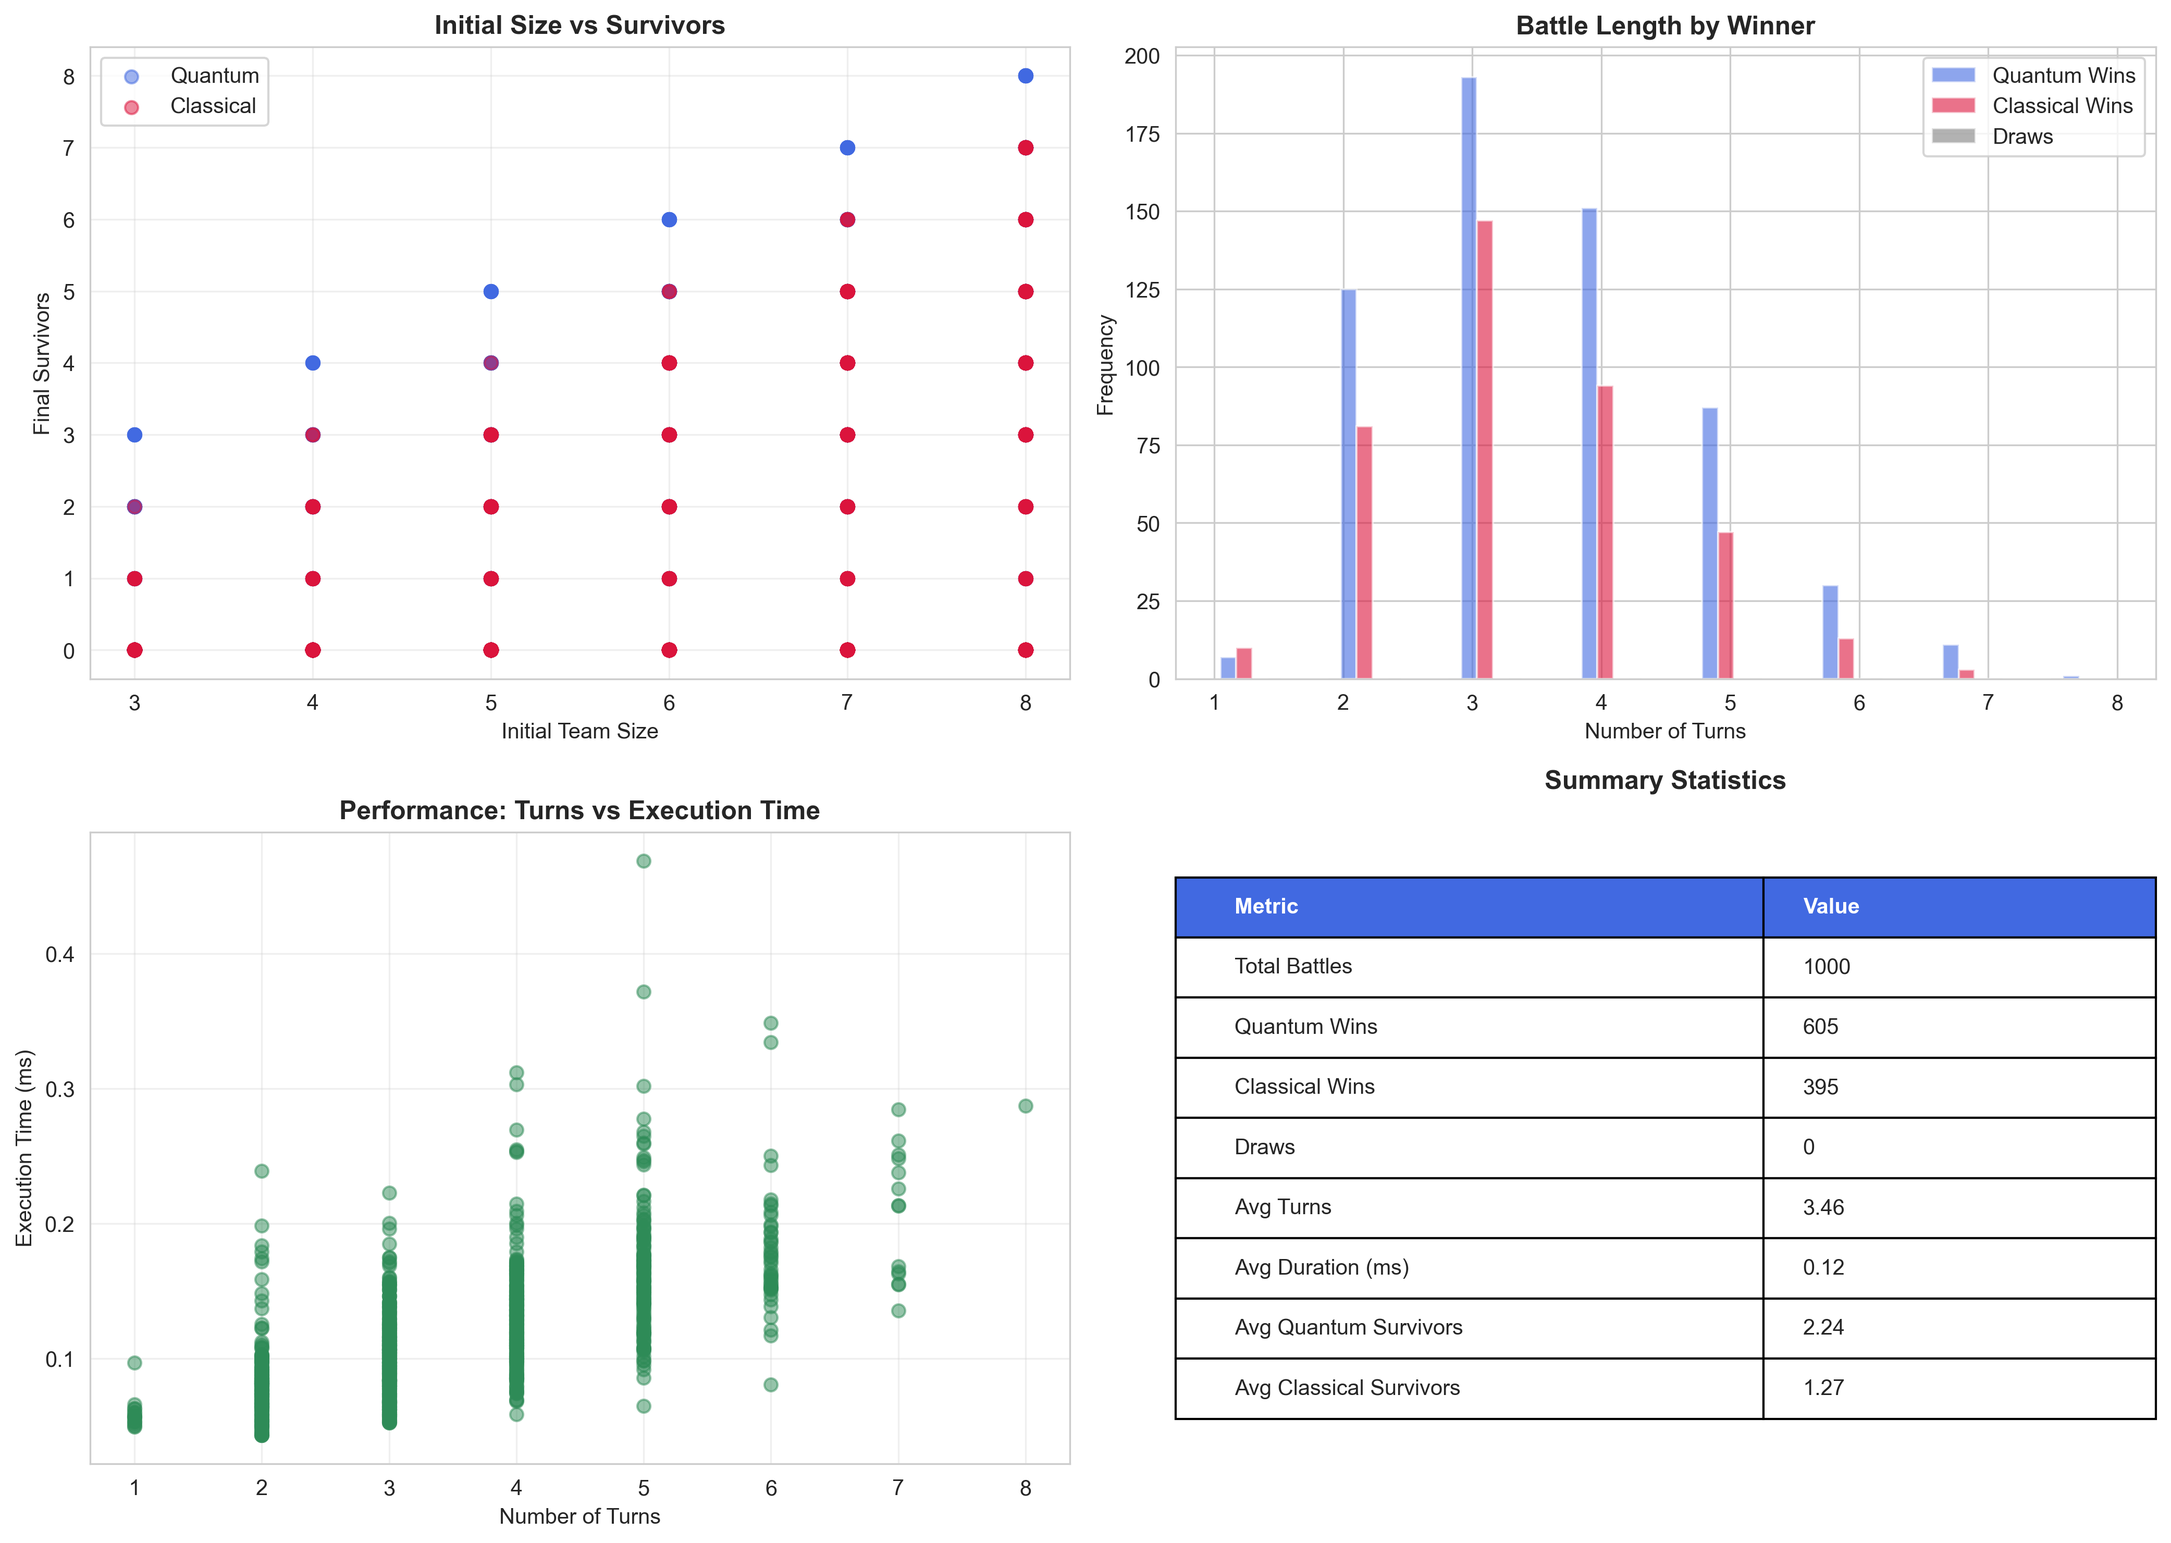
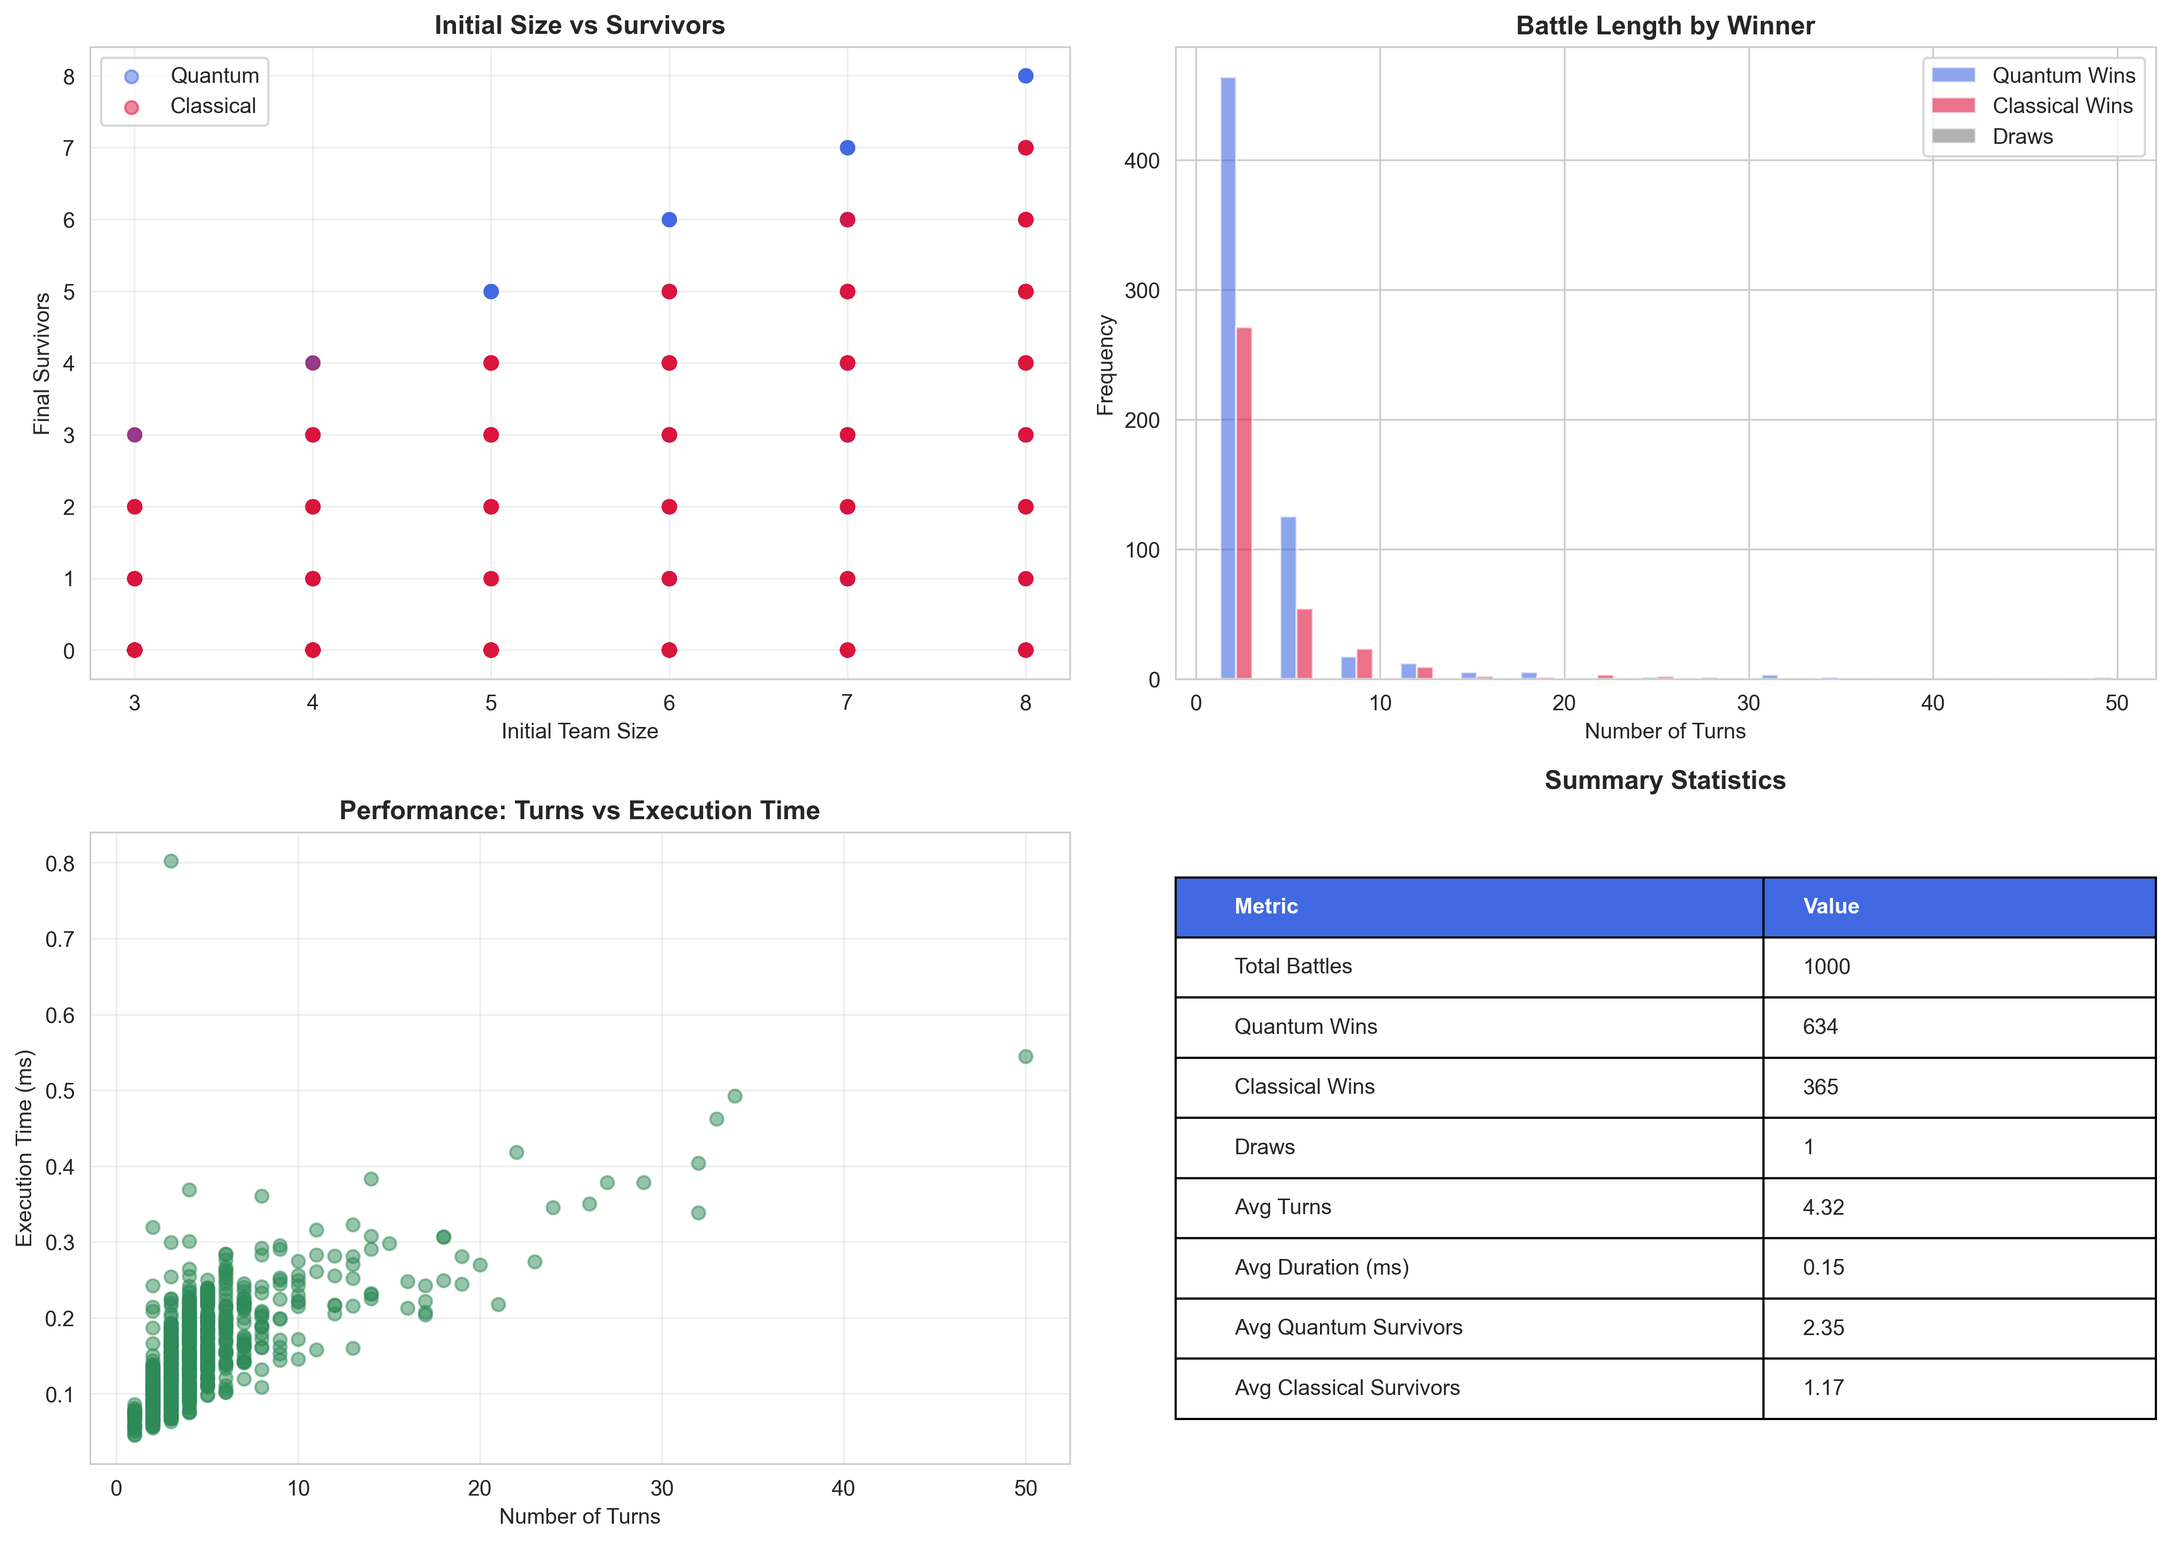
Refactoring and quantum random walk

diff --git a/versions_battlefield/1_battlefield_quantum_random_walk.py b/versions_battlefield/1_battlefield_quantum_random_walk.py
@@ -1,0 +1,254 @@
+import matplotlib.pyplot as plt
+from dataclasses import dataclass
+from typing import List, Tuple, Optional
+import random
+
+import quantum_library as qlib # Import your own quantum library
+
+quantum_algorithm = "random_walk"
+
+@dataclass
+class Soldier:
+    """Represents a single soldier on the battlefield."""
+    x: float
+    y: float
+    strength: int  # 1, 2, 3 (low, medium, high)
+    health: int    # 1, 2, 3 (low, medium, high) 
+    unit_type: str  # 'soldier', 'knight', 'archer'
+    team: str  # 'Quantum' or 'Classical'
+    range_dist: int  # 1, 2, 3 (low, medium, high)
+    max_health: int = None  # Track original health for display
+    
+    def __post_init__(self):
+        """Store max health after initialization."""
+        if self.max_health is None:
+            self.max_health = self.health
+    
+    def distance_to(self, other: 'Soldier') -> float:
+        """Manhattan distance to another soldier."""
+        return abs(self.x - other.x) + abs(self.y - other.y)
+    
+    def can_fight(self, other: 'Soldier') -> bool:
+        """Check if this soldier can fight another."""
+        return self.team != other.team and self.distance_to(other) <= self.range_dist
+    
+    def is_alive(self) -> bool:
+        """Check if soldier is still alive."""
+        return self.health >= 1
+    
+    def take_damage(self, damage: int):
+        """Reduce health by damage amount. Health stays between 0 and 3."""
+        self.health = max(0, min(3, self.health - damage))
+    
+    def attack(self, other: 'Soldier') -> int:
+        """
+        Attack another soldier and return damage dealt.
+        Damage is based on strength (1, 2, or 3).
+        Soldiers die when health drops below 1.
+        """
+        if not self.can_fight(other):
+            return 0
+        # Damage equals attacker's strength
+        damage = self.strength
+        other.take_damage(damage)
+        return damage
+    
+class QuantumBattlefield:
+    """Manages the battle simulation."""
+    def __init__(self, width: int = 4, height: int = 4):
+        self.width = width
+        self.height = height
+        self.board_size = width * height
+        self.soldiers: List[Soldier] = []
+        self.turn = 0
+        self.history = {'team_a_count': [], 'team_b_count': [], 'turn': []}
+    
+    def add_soldier(self, soldier: Soldier):
+        """Add a soldier to the battlefield."""
+        self.soldiers.append(soldier)
+    
+    def initialize_team(self, team: str, composition: dict, start_x_range: Tuple[int, int]):
+        """
+        Initialize a team with given composition.
+
+        Args:
+            team: 'Quantum' or 'Classical'
+            composition: {'unit_type': (count, strength, health, range_dist)}
+            start_x_range: (x_min, x_max) for starting positions (inclusive)
+        """
+        # All possible x positions in the allowed range
+        xs = range(start_x_range[0], start_x_range[1] + 1)
+        ys = range(self.height)
+
+        # Create a list of all (x, y) pairs
+        all_positions = [(x, y) for x in xs for y in ys]
+        random.shuffle(all_positions)
+        pos_index = 0
+
+        for unit_type, (count, strength, health, range_dist) in composition.items():
+            for _ in range(count):
+                if pos_index >= len(all_positions):
+                    print(f"Warning: Not enough positions for all units!")
+                    break
+                    
+                x, y = all_positions[pos_index]
+                pos_index += 1
+
+                soldier = Soldier(x, y, strength, health, unit_type, team, range_dist)
+                self.add_soldier(soldier)
+
+    def record_history(self):
+        """Record current soldier counts for this turn."""
+        count_a = sum(1 for s in self.soldiers if s.team == 'Quantum')
+        count_b = sum(1 for s in self.soldiers if s.team == 'B')
+        self.history['team_a_count'].append(count_a)
+        self.history['team_b_count'].append(count_b)
+        self.history['turn'].append(self.turn)
+
+    def move_soldiers(self):
+        for soldier in self.soldiers:
+            if not soldier.is_alive():
+                continue
+            
+            current_pos = (soldier.x, soldier.y)
+            if soldier.team == "Quantum":
+                # take the best posible move
+                # the function must return a tuple best_move = (x,y) based on the current position of the soldier
+                # it can accept any desired extra argument
+                best_move = qlib.quantum_best_move(current_pos, quantum_algorithm)
+            else:
+                # the classical team moves using random walks
+                best_move = (random.randint(-1, 1), random.randint(-1, 1))
+
+            # clip to the grid
+            new_x = max(0, min(self.width - 1, best_move[0]))
+            new_y = max(0, min(self.height - 1, best_move[1]))
+            # update position
+            if not self._is_position_occupied_by_teammate(new_x, new_y, soldier):
+                # Update position only if not occupied by teammate
+                soldier.x, soldier.y = new_x, new_y
+    
+    def _find_nearest_enemy(self, soldier: Soldier) -> Optional[Soldier]:
+        """Find the nearest enemy soldier."""
+        enemies = [s for s in self.soldiers if s.team != soldier.team and s.is_alive()]
+        if not enemies:
+            return None
+        return min(enemies, key=lambda e: soldier.distance_to(e))
+    
+    def _is_position_occupied_by_teammate(self, x: float, y: float, soldier: Soldier) -> bool:
+        """Check if a position is occupied by a teammate."""
+        for other in self.soldiers:
+            if other is not soldier and other.is_alive() and other.team == soldier.team:
+                if other.x == x and other.y == y:
+                    return True
+        return False
+    
+    def resolve_combat(self):
+        """
+        Resolve all combats this turn.
+        Each soldier attacks enemies in range based on their strength.
+        Soldiers die when health reaches 0.
+        """
+        combat_pairs = []
+        
+        # Find all valid combat pairs
+        for i, attacker in enumerate(self.soldiers):
+            if not attacker.is_alive():
+                continue
+            
+            # Find enemies in range
+            targets = [s for s in self.soldiers if attacker.can_fight(s) and s.is_alive()]
+            
+            if targets:
+                # Attack the weakest enemy in range (lowest current health)
+                target = min(targets, key=lambda s: s.health)
+                combat_pairs.append((attacker, target))
+        
+        # Execute all attacks
+        for attacker, defender in combat_pairs:
+            if attacker.is_alive() and defender.is_alive():
+                attacker.attack(defender)
+        
+        # Remove dead soldiers
+        self.soldiers = [s for s in self.soldiers if s.is_alive()]
+
+    def step(self):
+        """Execute one turn of the battle."""
+        self.move_soldiers()
+        self.resolve_combat()
+        self.turn += 1
+        self.record_history()
+    
+    def is_battle_over(self) -> bool:
+        """Check if battle has ended."""
+        count_a = sum(1 for s in self.soldiers if s.team == 'Quantum')
+        count_b = sum(1 for s in self.soldiers if s.team == 'Classical')
+        return count_a == 0 or count_b == 0
+    
+    def get_winner(self) -> str:
+        """Return 'Quantum', 'Classical', or None."""
+        count_a = sum(1 for s in self.soldiers if s.team == 'Quantum')
+        count_b = sum(1 for s in self.soldiers if s.team == 'Classical')
+        if count_a == 0 and count_b == 0:
+            return None
+        if count_a == 0:
+            return 'Classical'
+        if count_b == 0:
+            return 'Quantum'
+        return None
+    
+    def get_survivor_count(self) -> Tuple[int, int]:
+        """Return (team_a_survivors, team_b_survivors)."""
+        count_a = sum(1 for s in self.soldiers if s.team == 'Quantum')
+        count_b = sum(1 for s in self.soldiers if s.team == 'Classical')
+        return count_a, count_b
+    
+def visualize_battle(battlefield: QuantumBattlefield, save_path: str = None):
+    """Create a static visualization of the battlefield with unit types as markers."""
+    fig, ax = plt.subplots()
+    
+    # Define markers for unit types
+    markers = {'soldier': 'o', 'knight': 's', 'archer': '^'}
+    colors = {'Quantum': 'royalblue', 'Classical': 'firebrick'}
+    
+    # Plot each combination of team and unit type
+    for team in ['Quantum', 'Classical']:
+        for unit_type, marker in markers.items():
+            soldiers = [s for s in battlefield.soldiers 
+                       if s.team == team and s.unit_type == unit_type]
+            if soldiers:
+                ax.scatter([s.x for s in soldiers], [s.y for s in soldiers], 
+                          c=colors[team], marker=marker, s=100, alpha=0.7,
+                          label=f'Team {team} - {unit_type}', edgecolors='black', linewidth=0.5)
+    
+    ax.set_xlim(-0.1, battlefield.width - 1  + 0.1)
+    ax.set_xticks([x for x in range(battlefield.width)])
+    ax.set_xticklabels([])
+    ax.set_ylim(-0.1, battlefield.height - 1 + 0.1)
+    ax.set_yticks([x for x in range(battlefield.height)])
+    ax.set_yticklabels([])
+    ax.set_aspect('equal')
+    plt.tick_params(axis='both', direction='in')
+    ax.grid(True, alpha=0.3)
+    
+    if save_path:
+        plt.savefig(save_path)
+    plt.show()
+
+def plot_history(battlefield: QuantumBattlefield, save_path: str = None):
+    """Plot team sizes over time."""
+    plt.figure()
+    plt.plot(battlefield.history['turn'], battlefield.history['team_a_count'], 
+             label='Team Quantum', color='royalblue', linewidth=2)
+    plt.plot(battlefield.history['turn'], battlefield.history['team_b_count'], 
+             label='Team Firebrick', color='firebrick', linewidth=2)
+    plt.xlabel('Turn')
+    plt.xticks(battlefield.history['turn'])
+    plt.ylabel('Soldier Count')
+    plt.title('Team Size Over Time')
+    plt.legend()
+    plt.grid(True, alpha=0.3)
+    
+    if save_path:
+        plt.savefig(save_path)
+    plt.show()

diff --git a/quantum_library.py b/quantum_library.py
@@ -6,68 +6,27 @@ Replace this with actual quantum algorithm implementation.
 
 import random
 
-
-def quantum_best_move(current_position):
+def quantum_random_walk(current_position):
     """
-    Calculate the best move using quantum algorithms (MOCK IMPLEMENTATION).
-
-    This is a placeholder that currently returns random moves.
-    In a real implementation, this should use quantum algorithms (like QAOA, VQE, etc.)
-    to calculate optimal moves based on battlefield state.
-
-    Args:
-        current_position: Tuple (x, y) representing current soldier position
-
-    Returns:
-        Tuple (new_x, new_y) representing the new position after the move
-
-    TODO: Implement actual quantum algorithm here
-    Possible approaches:
-    - Quantum Approximate Optimization Algorithm (QAOA)
-    - Variational Quantum Eigensolver (VQE)
-    - Quantum Annealing
-    - Grover's Algorithm for search optimization
+    Classic random walk implementation.
     """
-    # MOCK: Currently using random walk (same as classical)
-    # Replace this with actual quantum algorithm
     x, y = current_position
     dx = random.randint(-1, 1)
     dy = random.randint(-1, 1)
-
     return (x + dx, y + dy)
 
+# Dictionary to store available algorithms
+ALGORITHMS = {
+    'random_walk': quantum_random_walk,
+}
 
-# Additional quantum utilities can be added here
-def quantum_target_selection(soldier_position, enemy_positions):
+def quantum_best_move(current_position, quantum_algorithm):
     """
-    Use quantum algorithms to select optimal target.
-    MOCK IMPLEMENTATION - Replace with actual quantum algorithm.
-
-    Args:
-        soldier_position: Current soldier (x, y)
-        enemy_positions: List of enemy (x, y) positions
-
-    Returns:
-        Index of optimal target in enemy_positions list
+    Dynamically selects and applies a specified quantum algorithm to determine the best move.
     """
-    if not enemy_positions:
-        return None
+    algorithm_func = ALGORITHMS.get(quantum_algorithm)
 
-    # MOCK: Return random target
-    return random.randint(0, len(enemy_positions) - 1)
-
-
-def quantum_formation_optimizer(team_positions, enemy_positions):
-    """
-    Optimize team formation using quantum algorithms.
-    MOCK IMPLEMENTATION - Replace with actual quantum algorithm.
-
-    Args:
-        team_positions: List of friendly unit (x, y) positions
-        enemy_positions: List of enemy unit (x, y) positions
-
-    Returns:
-        Dictionary mapping unit index to optimal position
-    """
-    # MOCK: Return empty dict (no formation changes)
-    return {}
+    if algorithm_func:
+        return algorithm_func(current_position)
+    else:
+        raise ValueError(f"Unknown algorithm: {quantum_algorithm}. Available algorithms are: {list(ALGORITHMS.keys())}")

diff --git a/battlefield.py b/battlefield.py
@@ -3,7 +3,9 @@ from dataclasses import dataclass
 from typing import List, Tuple, Optional
 import random
 
-# import quantum_library as qlib # Import your own quantum library
+import quantum_library as qlib # Import your own quantum library
+
+quantum_algorithm = "random_walk"
 
 @dataclass
 class Soldier:
@@ -107,11 +109,13 @@ class QuantumBattlefield:
         for soldier in self.soldiers:
             if not soldier.is_alive():
                 continue
+            
+            current_pos = (soldier.x, soldier.y)
             if soldier.team == "Quantum":
                 # take the best posible move
                 # the function must return a tuple best_move = (x,y) based on the current position of the soldier
                 # it can accept any desired extra argument
-                best_move = (random.randint(-1, 1), random.randint(-1, 1)) # qlib.quantum_best_move((soldier.x, soldier.y))
+                best_move = qlib.quantum_best_move(current_pos, quantum_algorithm)
             else:
                 # the classical team moves using random walks
                 best_move = (random.randint(-1, 1), random.randint(-1, 1))
